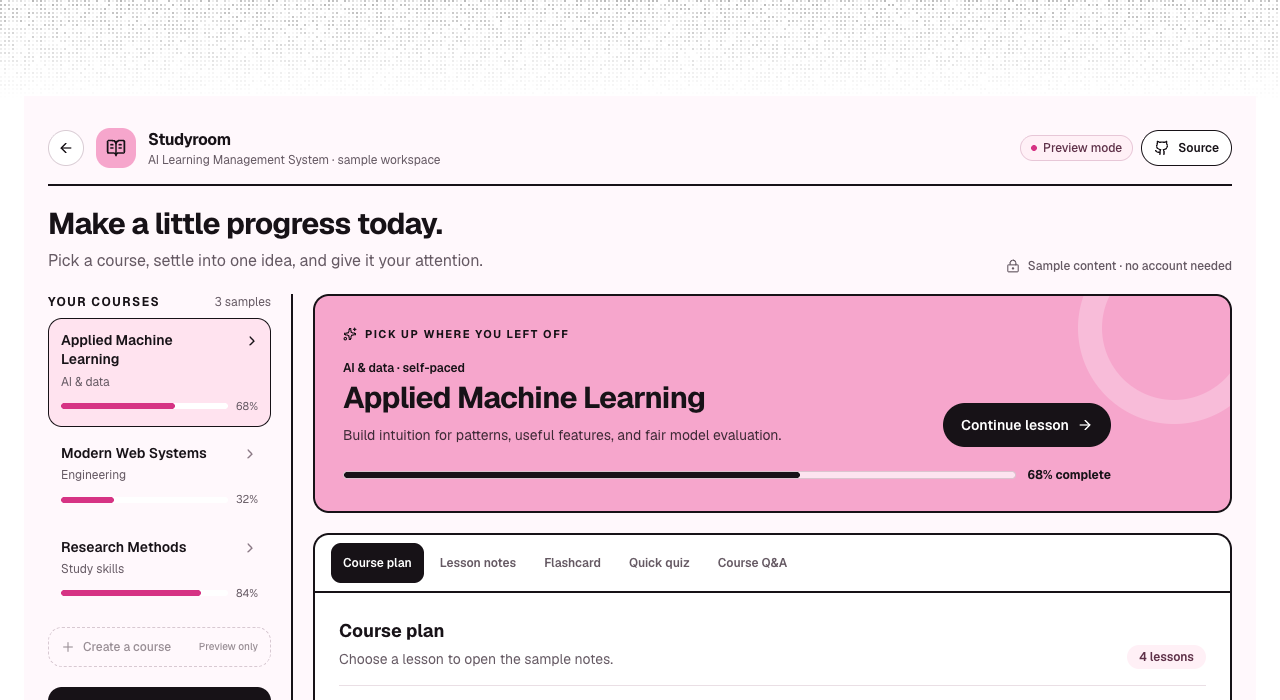
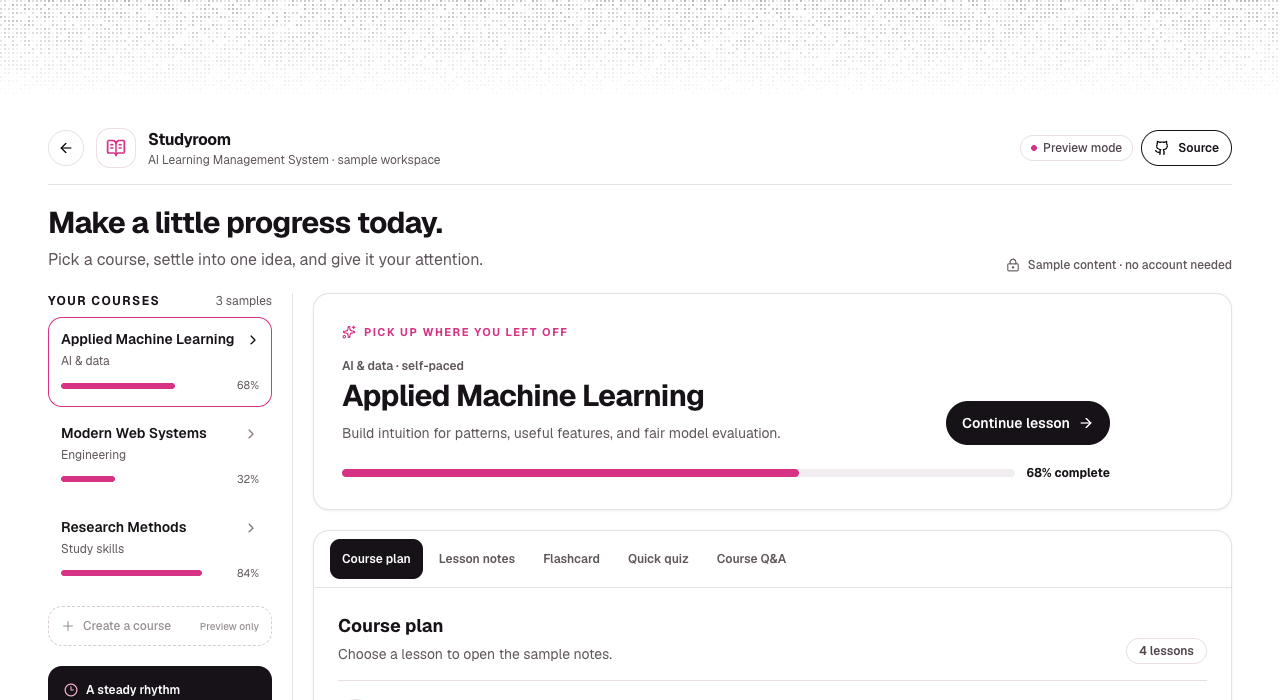
Refine AI study demo with a clean white and pink palette

diff --git a/src/components/learning-management-demo.tsx b/src/components/learning-management-demo.tsx
@@ -85,27 +85,27 @@ const tabLabels: Record<StudyTab, string> = {
 
 function PreviewHeader({ embedded }: { embedded: boolean }) {
   return (
-    <header className="flex flex-wrap items-center justify-between gap-3 border-b-2 border-[#171217] pb-4">
+    <header className="flex flex-wrap items-center justify-between gap-3 border-b border-[#e7e0e4] pb-4">
       <div className="flex min-w-0 items-center gap-3">
         {!embedded && (
           <Link
             href="/"
             aria-label="Back to portfolio"
-            className="grid size-9 shrink-0 place-items-center rounded-full border border-[#d9ccd4] bg-white text-[#171217] transition-colors hover:bg-[#fff0f6] focus-visible:outline-none focus-visible:ring-2 focus-visible:ring-[#d63384]"
+            className="grid size-9 shrink-0 place-items-center rounded-full border border-[#e7e0e4] bg-white text-[#171217] transition-colors hover:bg-[#fff8fb] focus-visible:outline-none focus-visible:ring-2 focus-visible:ring-[#d63384]"
           >
             <ArrowLeft className="size-4" />
           </Link>
         )}
-        <span className="grid size-10 shrink-0 place-items-center rounded-xl bg-[#f6a6cc] text-[#171217]">
+        <span className="grid size-10 shrink-0 place-items-center rounded-xl border border-[#eadfe5] bg-white text-[#d63384]">
           <BookOpenText className="size-5" aria-hidden />
         </span>
         <div className="min-w-0">
           <p className="font-bold tracking-tight">Studyroom</p>
-          <p className="truncate text-xs text-[#655963]">AI Learning Management System · sample workspace</p>
+          <p className="truncate text-xs text-[#5f565c]">AI Learning Management System · sample workspace</p>
         </div>
       </div>
       <div className="flex items-center gap-2">
-        <span className="inline-flex items-center gap-1.5 rounded-full border border-[#e7c7d7] bg-[#fff0f6] px-2.5 py-1 text-xs font-medium text-[#5e3048]">
+        <span className="inline-flex items-center gap-1.5 rounded-full border border-[#eadfe5] bg-white px-2.5 py-1 text-xs font-medium text-[#51464d]">
           <span className="size-1.5 rounded-full bg-[#d63384]" aria-hidden />
           Preview mode
         </span>
@@ -156,22 +156,22 @@ export function LearningManagementDemo({ embedded = false }: { embedded?: boolea
       <section className="grid gap-2 sm:grid-cols-[1fr_auto] sm:items-end">
         <div>
           <h1 className="max-w-2xl text-2xl font-bold tracking-tight sm:text-3xl">Make a little progress today.</h1>
-          <p className="mt-1.5 max-w-2xl text-sm leading-relaxed text-[#655963] sm:text-base">
+          <p className="mt-1.5 max-w-2xl text-sm leading-relaxed text-[#5f565c] sm:text-base">
             Pick a course, settle into one idea, and give it your attention.
           </p>
         </div>
-        <p className="inline-flex w-fit items-center gap-2 text-xs font-medium text-[#655963]">
+        <p className="inline-flex w-fit items-center gap-2 text-xs font-medium text-[#5f565c]">
           <LockKeyhole className="size-3.5" aria-hidden />
           Sample content · no account needed
         </p>
       </section>
 
       <div className="grid gap-5 lg:grid-cols-[245px_minmax(0,1fr)]">
-        <aside className="flex flex-col gap-5 border-b-2 border-[#171217] pb-5 lg:border-b-0 lg:border-r-2 lg:pb-0 lg:pr-5" aria-label="Course navigation">
+        <aside className="flex flex-col gap-5 border-b border-[#e7e0e4] pb-5 lg:border-b-0 lg:border-r lg:pb-0 lg:pr-5" aria-label="Course navigation">
           <div>
             <div className="mb-2 flex items-baseline justify-between">
               <h2 className="text-xs font-bold uppercase tracking-[0.12em]">Your courses</h2>
-              <span className="text-xs text-[#655963]">{courses.length} samples</span>
+              <span className="text-xs text-[#5f565c]">{courses.length} samples</span>
             </div>
             <div className="space-y-1">
               {courses.map((item, index) => (
@@ -180,18 +180,18 @@ export function LearningManagementDemo({ embedded = false }: { embedded?: boolea
                   type="button"
                   onClick={() => chooseCourse(index)}
                   aria-pressed={courseIndex === index}
-                  className={"group w-full rounded-xl border p-3 text-left transition-colors focus-visible:outline-none focus-visible:ring-2 focus-visible:ring-[#d63384] " + (courseIndex === index ? "border-[#171217] bg-[#ffe3ef]" : "border-transparent hover:bg-[#fff0f6]")}
+                  className={"group w-full rounded-xl border p-3 text-left transition-colors focus-visible:outline-none focus-visible:ring-2 focus-visible:ring-[#d63384] " + (courseIndex === index ? "border-[#d63384] bg-white" : "border-transparent hover:bg-[#fff8fb]")}
                 >
                   <span className="flex items-start justify-between gap-2">
                     <span className="text-sm font-semibold leading-snug">{item.title}</span>
                     <ChevronRight className={"mt-0.5 size-4 shrink-0 transition-transform " + (courseIndex === index ? "translate-x-0.5" : "text-[#8b7985] group-hover:translate-x-0.5")} aria-hidden />
                   </span>
-                  <span className="mt-1 block text-xs text-[#655963]">{item.subject}</span>
+                  <span className="mt-1 block text-xs text-[#5f565c]">{item.subject}</span>
                   <span className="mt-2 flex items-center gap-2">
                     <span className="h-1.5 flex-1 overflow-hidden rounded-full bg-white">
                       <span className="block h-full rounded-full bg-[#d63384]" style={{ width: item.progress + "%" }} />
                     </span>
-                    <span className="text-[11px] tabular-nums text-[#655963]">{item.progress}%</span>
+                    <span className="text-[11px] tabular-nums text-[#5f565c]">{item.progress}%</span>
                   </span>
                 </button>
               ))}
@@ -223,39 +223,38 @@ export function LearningManagementDemo({ embedded = false }: { embedded?: boolea
         </aside>
 
         <div className="min-w-0 space-y-5">
-          <section className="relative overflow-hidden rounded-2xl border-2 border-[#171217] bg-[#f6a6cc] p-5 sm:p-7">
-            <div className="absolute -right-10 -top-16 size-48 rounded-full border-[24px] border-white/25" aria-hidden />
+          <section className="relative overflow-hidden rounded-2xl border border-[#e7e0e4] bg-white p-5 shadow-sm shadow-[#171217]/5 sm:p-7">
             <div className="relative max-w-3xl">
-              <p className="inline-flex items-center gap-2 text-[11px] font-bold uppercase tracking-[0.14em]">
+              <p className="inline-flex items-center gap-2 text-[11px] font-bold uppercase tracking-[0.14em] text-[#d63384]">
                 <Sparkles className="size-3.5" aria-hidden />
                 Pick up where you left off
               </p>
               <div className="mt-3 flex flex-wrap items-end justify-between gap-4">
                 <div className="max-w-xl">
-                  <p className="text-xs font-semibold">{course.subject} · self-paced</p>
+                  <p className="text-xs font-semibold text-[#5f565c]">{course.subject} · self-paced</p>
                   <h2 className="mt-1 text-2xl font-bold tracking-tight sm:text-3xl">{course.title}</h2>
-                  <p className="mt-2 text-sm leading-relaxed text-[#3d2935]">{course.description}</p>
+                  <p className="mt-2 text-sm leading-relaxed text-[#5f565c]">{course.description}</p>
                 </div>
                 <button
                   type="button"
                   onClick={() => chooseTab("notes")}
-                  className="inline-flex min-h-11 items-center gap-2 rounded-full border-2 border-[#171217] bg-[#171217] px-4 text-sm font-semibold text-white transition-transform hover:-translate-y-0.5 focus-visible:outline-none focus-visible:ring-2 focus-visible:ring-white focus-visible:ring-offset-2 focus-visible:ring-offset-[#f6a6cc]"
+                  className="inline-flex min-h-11 items-center gap-2 rounded-full bg-[#171217] px-4 text-sm font-semibold text-white transition-transform hover:-translate-y-0.5 focus-visible:outline-none focus-visible:ring-2 focus-visible:ring-[#d63384] focus-visible:ring-offset-2 focus-visible:ring-offset-white"
                 >
                   Continue lesson
                   <ArrowRight className="size-4" aria-hidden />
                 </button>
               </div>
               <div className="mt-5 flex items-center gap-3">
-                <div className="h-2 flex-1 overflow-hidden rounded-full border border-[#171217]/15 bg-white/70" role="progressbar" aria-label={course.title + " progress"} aria-valuemin={0} aria-valuemax={100} aria-valuenow={course.progress}>
-                  <div className="h-full rounded-full bg-[#171217]" style={{ width: course.progress + "%" }} />
+                <div className="h-2 flex-1 overflow-hidden rounded-full bg-[#f2edf0]" role="progressbar" aria-label={course.title + " progress"} aria-valuemin={0} aria-valuemax={100} aria-valuenow={course.progress}>
+                  <div className="h-full rounded-full bg-[#d63384]" style={{ width: course.progress + "%" }} />
                 </div>
                 <span className="text-xs font-bold tabular-nums">{course.progress}% complete</span>
               </div>
             </div>
           </section>
 
-          <section className="overflow-hidden rounded-2xl border-2 border-[#171217] bg-white">
-            <div className="flex gap-1 overflow-x-auto border-b-2 border-[#171217] p-2 sm:px-4" role="tablist" aria-label="Study materials">
+          <section className="overflow-hidden rounded-2xl border border-[#e7e0e4] bg-white shadow-sm shadow-[#171217]/5">
+            <div className="flex gap-1 overflow-x-auto border-b border-[#e7e0e4] p-2 sm:px-4" role="tablist" aria-label="Study materials">
               {tabs.map((item) => (
                 <button
                   key={item}
@@ -263,7 +262,7 @@ export function LearningManagementDemo({ embedded = false }: { embedded?: boolea
                   role="tab"
                   aria-selected={tab === item}
                   onClick={() => chooseTab(item)}
-                  className={"min-h-10 shrink-0 rounded-lg px-3 text-xs font-semibold transition-colors focus-visible:outline-none focus-visible:ring-2 focus-visible:ring-[#d63384] " + (tab === item ? "bg-[#171217] text-white" : "text-[#655963] hover:bg-[#fff0f6] hover:text-[#171217]")}
+                  className={"min-h-10 shrink-0 rounded-lg px-3 text-xs font-semibold transition-colors focus-visible:outline-none focus-visible:ring-2 focus-visible:ring-[#d63384] " + (tab === item ? "bg-[#171217] text-white" : "text-[#5f565c] hover:bg-[#fff8fb] hover:text-[#171217]")}
                 >
                   {tabLabels[item]}
                 </button>
@@ -276,9 +275,9 @@ export function LearningManagementDemo({ embedded = false }: { embedded?: boolea
                   <div className="mb-4 flex flex-wrap items-end justify-between gap-3">
                     <div>
                       <h3 className="text-lg font-bold">Course plan</h3>
-                      <p className="mt-1 text-sm text-[#655963]">Choose a lesson to open the sample notes.</p>
+                      <p className="mt-1 text-sm text-[#5f565c]">Choose a lesson to open the sample notes.</p>
                     </div>
-                    <span className="rounded-full bg-[#fff0f6] px-3 py-1 text-xs font-semibold text-[#5e3048]">{course.chapters.length} lessons</span>
+                    <span className="rounded-full border border-[#eadfe5] bg-white px-3 py-1 text-xs font-semibold text-[#51464d]">{course.chapters.length} lessons</span>
                   </div>
                   <div className="divide-y divide-[#eadfe5] border-y border-[#eadfe5]">
                     {course.chapters.map((chapter, index) => {
@@ -291,16 +290,16 @@ export function LearningManagementDemo({ embedded = false }: { embedded?: boolea
                             setActiveChapter(index);
                             chooseTab("notes");
                           }}
-                          className="flex w-full items-center gap-3 py-4 text-left transition-colors hover:bg-[#fff8fc] focus-visible:outline-none focus-visible:ring-2 focus-visible:ring-inset focus-visible:ring-[#d63384]"
+                          className="flex w-full items-center gap-3 py-4 text-left transition-colors hover:bg-[#fff8fb] focus-visible:outline-none focus-visible:ring-2 focus-visible:ring-inset focus-visible:ring-[#d63384]"
                         >
-                          <span className={"grid size-9 shrink-0 place-items-center rounded-full border border-[#d9ccd4] text-xs font-bold " + (reviewed ? "bg-[#ffe3ef]" : "bg-white text-[#655963]")}>
-                            {reviewed ? <Check className="size-4" aria-label="Reviewed" /> : String(index + 1).padStart(2, "0")}
+                          <span className={"grid size-9 shrink-0 place-items-center rounded-full border border-[#e7e0e4] bg-white text-xs font-bold " + (reviewed ? "text-[#d63384]" : "text-[#5f565c")}>
+                            {reviewed ? <Check className="size-4 text-[#d63384]" aria-label="Reviewed" /> : String(index + 1).padStart(2, "0")}
                           </span>
                           <span className="min-w-0 flex-1">
                             <span className="block text-sm font-semibold">{chapter}</span>
-                            <span className="mt-1 block text-xs text-[#655963]">Sample lesson notes available</span>
+                            <span className="mt-1 block text-xs text-[#5f565c]">Sample lesson notes available</span>
                           </span>
-                          <ArrowRight className="size-4 shrink-0 text-[#655963]" aria-hidden />
+                          <ArrowRight className="size-4 shrink-0 text-[#5f565c]" aria-hidden />
                         </button>
                       );
                     })}
@@ -311,7 +310,7 @@ export function LearningManagementDemo({ embedded = false }: { embedded?: boolea
               {tab === "notes" && (
                 <article className="max-w-3xl">
                   <div className="mb-5 flex items-start gap-3">
-                    <span className="grid size-10 shrink-0 place-items-center rounded-xl bg-[#ffe3ef]">
+                    <span className="grid size-10 shrink-0 place-items-center rounded-xl border border-[#eadfe5] bg-white text-[#d63384]">
                       <FileText className="size-5" aria-hidden />
                     </span>
                     <div>
@@ -320,7 +319,7 @@ export function LearningManagementDemo({ embedded = false }: { embedded?: boolea
                     </div>
                   </div>
                   <p className="text-sm leading-7 text-[#493d45]">{course.noteIntro}</p>
-                  <div className="my-5 rounded-xl border-2 border-[#171217] bg-[#fff0f6] p-4">
+                  <div className="my-5 rounded-xl border border-[#e7e0e4] bg-[#fff8fb] p-4">
                     <p className="text-xs font-bold uppercase tracking-wide">Keep in mind</p>
                     <p className="mt-1.5 text-sm leading-relaxed text-[#493d45]">{course.takeaway}</p>
                   </div>
@@ -334,9 +333,9 @@ export function LearningManagementDemo({ embedded = false }: { embedded?: boolea
                   <div className="mb-4 flex flex-wrap items-center justify-between gap-3">
                     <div>
                       <h3 className="text-lg font-bold">One idea to remember</h3>
-                      <p className="mt-1 text-sm text-[#655963]">Flip the card to reveal the answer.</p>
+                      <p className="mt-1 text-sm text-[#5f565c]">Flip the card to reveal the answer.</p>
                     </div>
-                    <button type="button" onClick={() => setFlipped(!flipped)} className="inline-flex min-h-10 items-center gap-2 rounded-full border border-[#171217] px-3.5 text-xs font-semibold transition-colors hover:bg-[#fff0f6] focus-visible:outline-none focus-visible:ring-2 focus-visible:ring-[#d63384]">
+                    <button type="button" onClick={() => setFlipped(!flipped)} className="inline-flex min-h-10 items-center gap-2 rounded-full border border-[#e7e0e4] px-3.5 text-xs font-semibold transition-colors hover:bg-[#fff8fb] focus-visible:outline-none focus-visible:ring-2 focus-visible:ring-[#d63384]">
                       <RotateCcw className="size-3.5" aria-hidden />
                       Flip card
                     </button>
@@ -345,11 +344,11 @@ export function LearningManagementDemo({ embedded = false }: { embedded?: boolea
                     type="button"
                     aria-pressed={flipped}
                     onClick={() => setFlipped(!flipped)}
-                    className="flex min-h-64 w-full flex-col items-center justify-center rounded-2xl border-2 border-[#171217] bg-[#ffe3ef] p-8 text-center transition-colors hover:bg-[#ffd4e7] focus-visible:outline-none focus-visible:ring-2 focus-visible:ring-[#d63384]"
+                    className="flex min-h-64 w-full flex-col items-center justify-center rounded-2xl border border-[#e7e0e4] bg-white p-8 text-center transition-colors hover:border-[#d63384] focus-visible:outline-none focus-visible:ring-2 focus-visible:ring-[#d63384]"
                   >
                     <span className="text-[11px] font-bold uppercase tracking-[0.16em] text-[#6c3f56]">{flipped ? "Answer" : "Question"}</span>
                     <span className="mt-4 max-w-md text-xl font-semibold leading-relaxed">{flipped ? course.cardAnswer : course.cardQuestion}</span>
-                    <span className="mt-6 text-xs text-[#655963]">Select the card to {flipped ? "see the question" : "reveal the answer"}</span>
+                    <span className="mt-6 text-xs text-[#5f565c]">Select the card to {flipped ? "see the question" : "reveal the answer"}</span>
                   </button>
                 </div>
               )}
@@ -359,9 +358,9 @@ export function LearningManagementDemo({ embedded = false }: { embedded?: boolea
                   <div className="mb-5 flex flex-wrap items-center justify-between gap-3">
                     <div>
                       <h3 className="text-lg font-bold">Quick check</h3>
-                      <p className="mt-1 text-sm text-[#655963]">One sample question · untimed</p>
+                      <p className="mt-1 text-sm text-[#5f565c]">One sample question · untimed</p>
                     </div>
-                    <span className="rounded-full bg-[#fff0f6] px-3 py-1 text-xs font-semibold text-[#5e3048]">Practice</span>
+                    <span className="rounded-full border border-[#eadfe5] bg-white px-3 py-1 text-xs font-semibold text-[#51464d]">Practice</span>
                   </div>
                   <p className="text-sm font-semibold leading-relaxed">{course.quizQuestion}</p>
                   <div className="mt-4 space-y-2">
@@ -376,7 +375,7 @@ export function LearningManagementDemo({ embedded = false }: { embedded?: boolea
                             setSelectedAnswer(option);
                             setShowFeedback(true);
                           }}
-                          className={"flex w-full items-center gap-3 rounded-xl border p-3 text-left text-sm transition-colors focus-visible:outline-none focus-visible:ring-2 focus-visible:ring-[#d63384] " + (isSelected ? "border-[#171217] bg-[#ffe3ef]" : "border-[#eadfe5] hover:bg-[#fff8fc]")}
+                          className={"flex w-full items-center gap-3 rounded-xl border p-3 text-left text-sm transition-colors focus-visible:outline-none focus-visible:ring-2 focus-visible:ring-[#d63384] " + (isSelected ? "border-[#d63384] bg-[#fff8fb]" : "border-[#eadfe5] hover:bg-[#fff8fb]")}
                         >
                           <span className="grid size-7 shrink-0 place-items-center rounded-full border border-[#d9ccd4] text-xs font-semibold">{String.fromCharCode(65 + index)}</span>
                           <span className="flex-1">{option}</span>
@@ -386,7 +385,7 @@ export function LearningManagementDemo({ embedded = false }: { embedded?: boolea
                     })}
                   </div>
                   {showFeedback && (
-                    <p role="status" className={"mt-4 rounded-xl border p-3 text-sm font-medium " + (selectedAnswer === course.correct ? "border-[#a9c9ac] bg-[#f1faf1] text-[#23532c]" : "border-[#e7c7d7] bg-[#fff0f6] text-[#5e3048]")}>
+                    <p role="status" className={"mt-4 rounded-xl border p-3 text-sm font-medium " + (selectedAnswer === course.correct ? "border-[#eadfe5] bg-[#fff8fb] text-[#40383d]" : "border-[#eadfe5] bg-white text-[#51464d]")}>
                       {selectedAnswer === course.correct ? "That’s right. Nice work connecting the idea to the method." : "Not quite. Revisit the key idea, then try another answer."}
                     </p>
                   )}
@@ -396,10 +395,10 @@ export function LearningManagementDemo({ embedded = false }: { embedded?: boolea
               {tab === "q&a" && (
                 <div className="mx-auto max-w-2xl">
                   <div className="flex items-center gap-3">
-                    <span className="grid size-9 place-items-center rounded-full bg-[#ffe3ef]"><BookOpen className="size-4" aria-hidden /></span>
+                    <span className="grid size-9 place-items-center rounded-full border border-[#eadfe5] bg-white text-[#d63384]"><BookOpen className="size-4" aria-hidden /></span>
                     <div>
                       <h3 className="font-bold">Questions from this course</h3>
-                      <p className="mt-0.5 text-xs text-[#655963]">Prepared sample answers</p>
+                      <p className="mt-0.5 text-xs text-[#5f565c]">Prepared sample answers</p>
                     </div>
                   </div>
                   <div className="mt-4 divide-y divide-[#eadfe5] border-y border-[#eadfe5]">
@@ -408,14 +407,14 @@ export function LearningManagementDemo({ embedded = false }: { embedded?: boolea
                         <summary className="cursor-pointer list-none text-sm font-semibold focus-visible:outline-none focus-visible:ring-2 focus-visible:ring-[#d63384]">
                           <span className="flex items-center justify-between gap-3">{question}<ChevronRight className="size-4 shrink-0 transition-transform open:rotate-90" aria-hidden /></span>
                         </summary>
-                        <p className="mt-3 max-w-xl text-sm leading-relaxed text-[#655963]">{answer}</p>
+                        <p className="mt-3 max-w-xl text-sm leading-relaxed text-[#5f565c]">{answer}</p>
                       </details>
                     ))}
                   </div>
                 </div>
               )}
 
-              <p className="mt-7 flex items-start gap-2 border-t border-[#eadfe5] pt-4 text-xs leading-relaxed text-[#655963]">
+              <p className="mt-7 flex items-start gap-2 border-t border-[#eadfe5] pt-4 text-xs leading-relaxed text-[#5f565c]">
                 <BookOpen className="mt-0.5 size-3.5 shrink-0" aria-hidden />
                 Sample content only. Course generation, sign-in, and saved progress are not connected in this preview.
               </p>
@@ -428,14 +427,14 @@ export function LearningManagementDemo({ embedded = false }: { embedded?: boolea
 
   if (embedded) {
     return (
-      <section aria-label="AI Learning Management sample preview" className="rounded-xl bg-[#fff8fc] p-3 text-[#171217] sm:p-5">
+      <section aria-label="AI Learning Management sample preview" className="rounded-xl bg-white p-3 text-[#171217] sm:p-5">
         {content}
       </section>
     );
   }
 
   return (
-    <main className="relative left-1/2 min-h-dvh w-[calc(100vw-2rem)] max-w-[1320px] -translate-x-1/2 bg-[#fff8fc] px-4 py-5 text-[#171217] sm:w-[calc(100vw-3rem)] sm:px-6 sm:py-8">
+    <main className="relative left-1/2 min-h-dvh w-[calc(100vw-2rem)] max-w-[1320px] -translate-x-1/2 bg-white px-4 py-5 text-[#171217] sm:w-[calc(100vw-3rem)] sm:px-6 sm:py-8">
       <div className="mx-auto w-full max-w-[1320px]">{content}</div>
     </main>
   );
